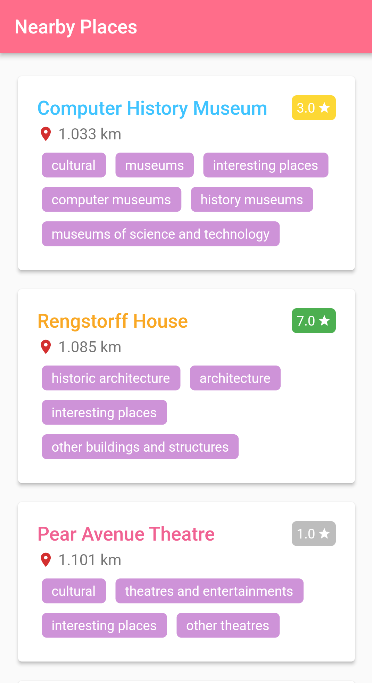
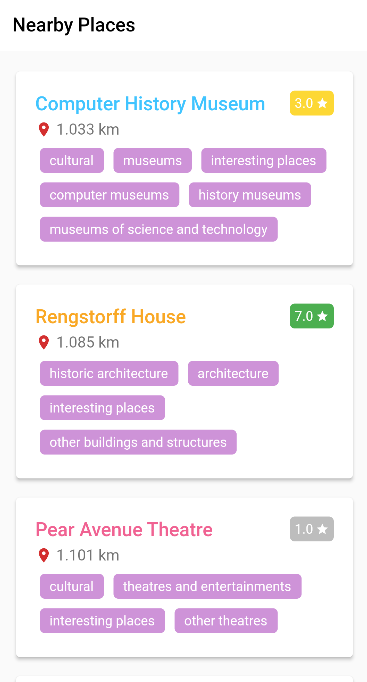
update: app bar ui

diff --git a/lib/screens/homepage.dart b/lib/screens/homepage.dart
@@ -25,8 +25,12 @@ class _HomePageState extends State<HomePage> {
   Widget build(BuildContext context) {
     return Scaffold(
       appBar: AppBar(
-        backgroundColor: Color(0xFFFF6D8A),
-        title: Text('Nearby Places'),
+        backgroundColor: Colors.white,
+        elevation: 0,
+        title: Text(
+          'Nearby Places',
+          style: TextStyle(color: Colors.black),
+        ),
       ),
       body: Padding(
         padding: const EdgeInsets.only(top: 20),
